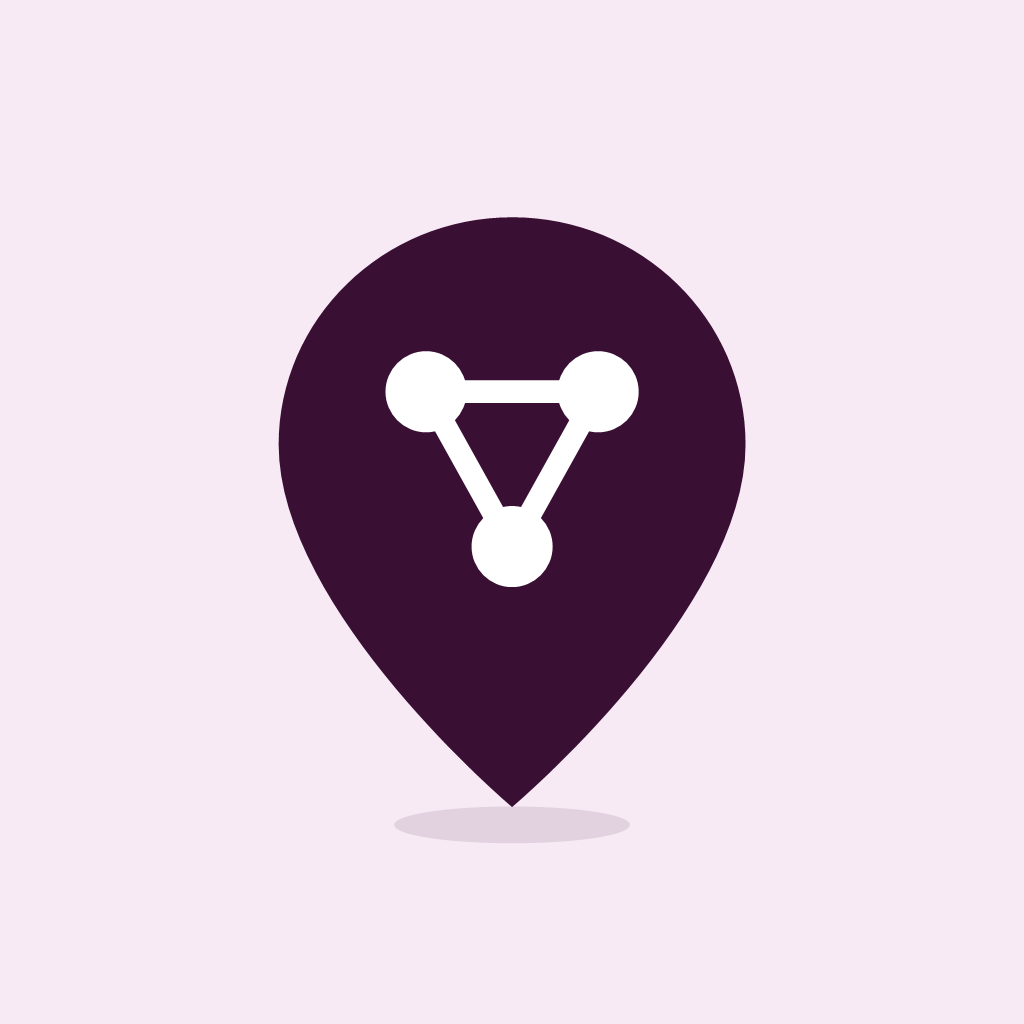
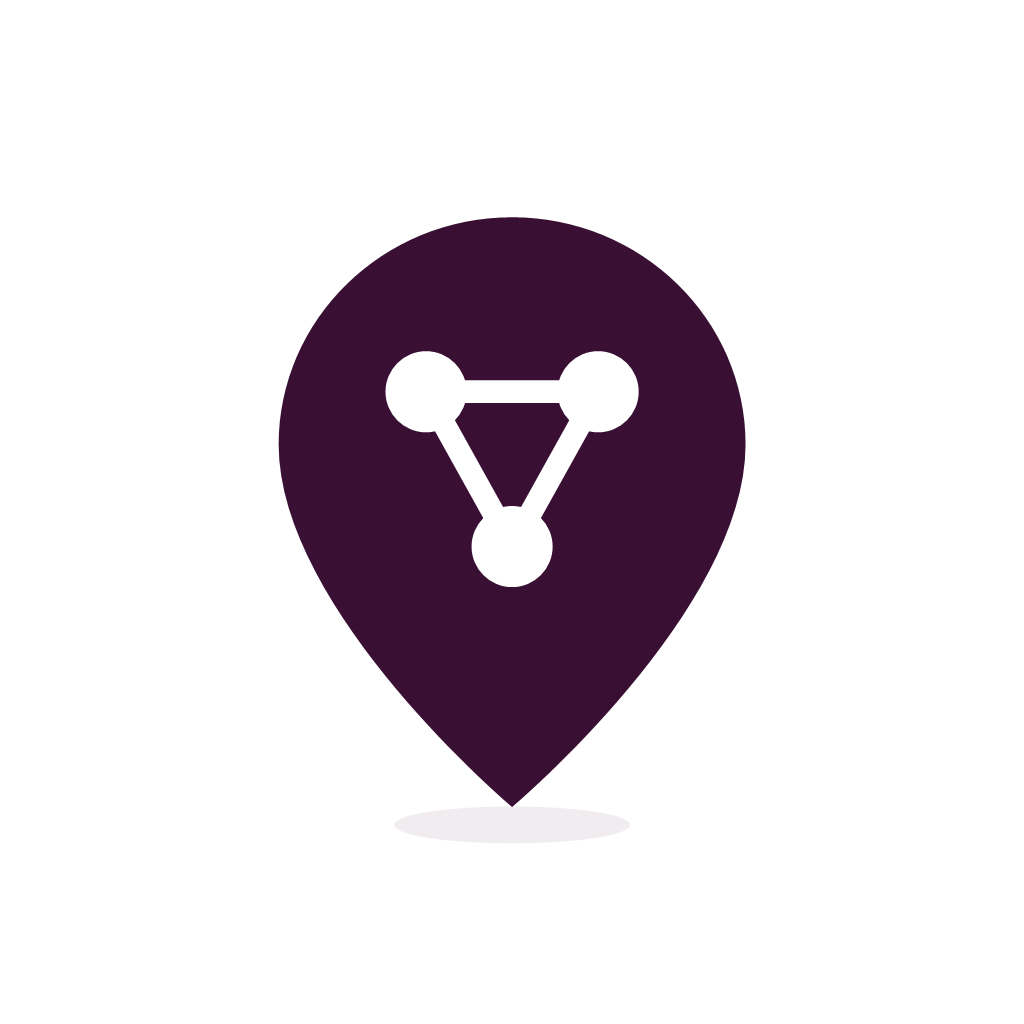
feat(feed,bazar): add category tab bar filtering to feed and bazar, and refresh app branding

Changed region(s): [[0.375, 0.7812, 0.625, 0.8438]]

diff --git a/lib/screens/feed/feed_screen.dart b/lib/screens/feed/feed_screen.dart
@@ -24,6 +24,7 @@ import '../../core/widgets/verified_badge.dart';
 import '../../services/rewards_service.dart';
 import '../rewards/rewards_hub_screen.dart';
 import '../../services/app_asset_service.dart';
+import '../../core/widgets/sliding_category_tab_bar.dart';
 
 class FeedScreen extends StatefulWidget {
   final PostRepository repository;
@@ -42,8 +43,72 @@ class FeedScreen extends StatefulWidget {
 }
 
 class _FeedScreenState extends State<FeedScreen> {
+  String _selectedFilterChip = 'All';
+
+  static const List<String> _feedCategoryFilters = [
+    'All',
+    'General',
+    'Question',
+    'Events',
+    'Alerts',
+    'Safety',
+  ];
+
   List<Post> _getFilteredPosts(List<Post> posts) {
+    if (_selectedFilterChip == 'All') return posts;
+
+    if (_selectedFilterChip == 'General') {
+      return posts.where((p) => p.category == PostCategory.general && !p.isEmergency).toList();
+    }
+
+    if (_selectedFilterChip == 'Question') {
+      return posts
+          .where((p) =>
+              p.category == PostCategory.question ||
+              (p.category == PostCategory.general && p.content.contains('?')))
+          .toList();
+    }
+
+    if (_selectedFilterChip == 'Events') {
+      return posts.where((p) => p.category == PostCategory.events || p.eventTitle != null).toList();
+    }
+
+    if (_selectedFilterChip == 'Alerts') {
+      return posts.where((p) => p.category == PostCategory.alerts).toList();
+    }
+
+    if (_selectedFilterChip == 'Safety') {
+      return posts
+          .where((p) =>
+              p.category == PostCategory.safety ||
+              p.category == PostCategory.safetyAlert ||
+              p.isEmergency)
+          .toList();
+    }
+
     return posts;
+  }
+
+  Widget _buildFilterChipsRow() {
+    final selectedIndex = _feedCategoryFilters.indexOf(_selectedFilterChip);
+    return Container(
+      height: 42,
+      margin: const EdgeInsets.only(top: 4, bottom: 6),
+      padding: const EdgeInsets.symmetric(horizontal: 16),
+      child: SlidingCategoryTabBar(
+        categories: _feedCategoryFilters,
+        selectedIndex: selectedIndex >= 0 ? selectedIndex : 0,
+        isScrollable: true,
+        onSelected: (index) {
+          final chip = _feedCategoryFilters[index];
+          if (_selectedFilterChip != chip) {
+            setState(() {
+              _selectedFilterChip = chip;
+            });
+          }
+        },
+      ),
+    );
   }
 
   void _openProfile() {
@@ -319,6 +384,7 @@ class _FeedScreenState extends State<FeedScreen> {
       ),
       body: Column(
         children: [
+          _buildFilterChipsRow(),
           Expanded(
             child: AnimatedSwitcher(
               duration: const Duration(milliseconds: 150),
@@ -333,7 +399,7 @@ class _FeedScreenState extends State<FeedScreen> {
               child: repo.isLoading
                   ? _buildLoadingSkeleton()
                   : KeyedSubtree(
-                      key: const ValueKey('feed_general_all_posts'),
+                      key: ValueKey('feed_general_posts_$_selectedFilterChip'),
                       child: RefreshIndicator(
                         onRefresh: () async {
                           await Future.wait([

diff --git a/lib/screens/create/create_post_screen.dart b/lib/screens/create/create_post_screen.dart
@@ -13,6 +13,7 @@ import '../../services/post_repository.dart';
 import '../../services/r2_storage_service.dart';
 import '../../services/token_decision_engine.dart';
 import '../../services/rewards_service.dart';
+import '../../core/widgets/sliding_category_tab_bar.dart';
 
 class CreatePostScreen extends StatefulWidget {
   final PostRepository repository;
@@ -29,9 +30,18 @@ class CreatePostScreen extends StatefulWidget {
 }
 
 class _CreatePostScreenState extends State<CreatePostScreen> {
+  static const List<PostCategory> _categories = [
+    PostCategory.general,
+    PostCategory.question,
+    PostCategory.events,
+    PostCategory.alerts,
+    PostCategory.safety,
+  ];
+
   GeoCity? _selectedGeoCity;
   GeoArea? _selectedArea;
   bool _isEmergency = false;
+  PostCategory _selectedCategory = PostCategory.general;
 
   final _contentController = TextEditingController();
   String? _errorMessage;
@@ -427,7 +437,7 @@ class _CreatePostScreenState extends State<CreatePostScreen> {
         areaName: effectiveArea?.name ?? effectiveCity.name,
         lat: effectiveLat,
         lng: effectiveLng,
-        category: _isEmergency ? PostCategory.safetyAlert : PostCategory.general,
+        category: _isEmergency ? PostCategory.safetyAlert : _selectedCategory,
         imageUrl: firstImageUrl,
         mediaUrls: uploadedMediaUrls,
       );
@@ -930,6 +940,26 @@ class _CreatePostScreenState extends State<CreatePostScreen> {
                       ),
                     ),
                   ],
+                ),
+              ),
+              IgnorePointer(
+                ignoring: _isEmergency,
+                child: Opacity(
+                  opacity: _isEmergency ? 0.45 : 1.0,
+                  child: Container(
+                    height: 40,
+                    margin: const EdgeInsets.only(bottom: 12),
+                    child: SlidingCategoryTabBar(
+                      categories: _categories.map((c) => c.label).toList(),
+                      selectedIndex: _categories.indexOf(_selectedCategory).clamp(0, _categories.length - 1),
+                      isScrollable: true,
+                      onSelected: (index) {
+                        if (!_isEmergency && index >= 0 && index < _categories.length) {
+                          setState(() => _selectedCategory = _categories[index]);
+                        }
+                      },
+                    ),
+                  ),
                 ),
               ),
               Container(

diff --git a/lib/screens/bazar/bazar_screen.dart b/lib/screens/bazar/bazar_screen.dart
@@ -219,6 +219,19 @@ class _BazarScreenState extends State<BazarScreen> {
   final TextEditingController _searchController = TextEditingController();
   String _searchQuery = '';
 
+  String _selectedCategory = 'All';
+
+  final List<String> _categories = [
+    'All',
+    'General',
+    'Furniture',
+    'Electronics',
+    'Clothes',
+    'Home food',
+    'Books',
+    'Other',
+  ];
+
   Future<void> _openPostScreen() async {
     final newProduct = await Navigator.push<BazarProduct>(
       context,
@@ -318,6 +331,10 @@ class _BazarScreenState extends State<BazarScreen> {
   List<BazarProduct> get _filteredProducts {
     return _allProducts.where((product) {
       if (product.isSold) return false;
+
+      if (_selectedCategory != 'All' && product.category != _selectedCategory) {
+        return false;
+      }
 
       if (_searchQuery.isNotEmpty) {
         final q = _searchQuery.toLowerCase();
@@ -675,7 +692,7 @@ class _BazarScreenState extends State<BazarScreen> {
     return RefreshIndicator(
       onRefresh: () async {
         await Future.wait([
-          BazarRepository.instance.fetchListings(),
+          BazarRepository.instance.fetchListings(category: _selectedCategory == 'All' ? null : _selectedCategory),
           BazarRepository.instance.fetchShops(),
         ]);
         _onBazarRepoChanged();
@@ -687,6 +704,24 @@ class _BazarScreenState extends State<BazarScreen> {
         child: Column(
           crossAxisAlignment: CrossAxisAlignment.start,
           children: [
+            Container(
+              height: 42,
+              margin: const EdgeInsets.symmetric(vertical: 8),
+              padding: const EdgeInsets.symmetric(horizontal: 16),
+              child: SlidingCategoryTabBar(
+                categories: _categories,
+                selectedIndex: _categories.indexOf(_selectedCategory).clamp(0, _categories.length - 1),
+                isScrollable: true,
+                onSelected: (index) {
+                  setState(() {
+                    _selectedCategory = _categories[index];
+                  });
+                  BazarRepository.instance.fetchListings(
+                    category: _selectedCategory == 'All' ? null : _selectedCategory,
+                  );
+                },
+              ),
+            ),
             _buildShopPerksBanner(),
             _buildLocalShopsSection(),
 

diff --git a/lib/screens/bazar/create_bazar_listing_screen.dart b/lib/screens/bazar/create_bazar_listing_screen.dart
@@ -7,6 +7,7 @@ import '../../services/bazar_repository.dart';
 import '../../services/r2_storage_service.dart';
 import '../../theme/app_colors.dart';
 import '../../services/rewards_service.dart';
+import '../../core/widgets/sliding_category_tab_bar.dart';
 import 'bazar_screen.dart';
 
 class CreateBazarListingScreen extends StatefulWidget {
@@ -29,6 +30,16 @@ class _CreateBazarListingScreenState extends State<CreateBazarListingScreen> {
   String _selectedCondition = 'Used';
   String _selectedLocation = 'Vadodara';
   bool _isPublishing = false;
+
+  final List<String> _categories = [
+    'General',
+    'Furniture',
+    'Electronics',
+    'Clothes',
+    'Home food',
+    'Books',
+    'Other',
+  ];
 
   String? _existingImageUrl;
 
@@ -696,6 +707,24 @@ class _CreateBazarListingScreenState extends State<CreateBazarListingScreen> {
                   ),
                 ),
               ],
+            ),
+
+            const SizedBox(height: 14),
+
+            Text('CATEGORY', style: labelStyle),
+            const SizedBox(height: 8),
+            SizedBox(
+              height: 42,
+              child: SlidingCategoryTabBar(
+                categories: _categories,
+                selectedIndex: _categories.indexOf(_selectedCategory).clamp(0, _categories.length - 1),
+                isScrollable: true,
+                onSelected: (index) {
+                  setState(() {
+                    _selectedCategory = _categories[index];
+                  });
+                },
+              ),
             ),
 
             const SizedBox(height: 14),
